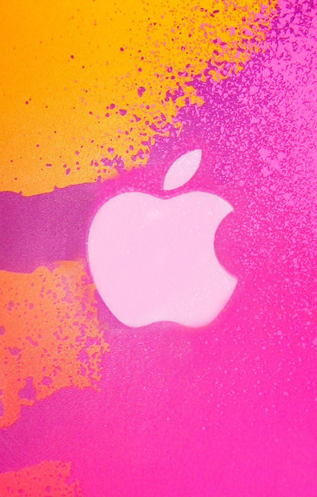
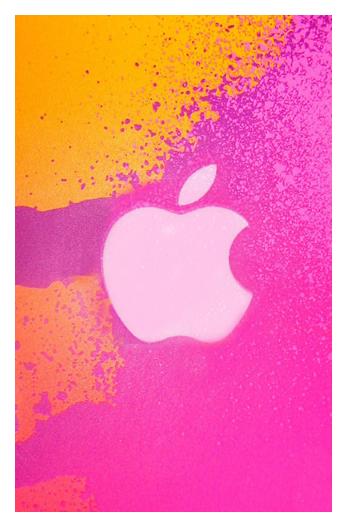
Added rounded corners

diff --git a/src/game/view/Window.java b/src/game/view/Window.java
@@ -2,12 +2,14 @@ package game.view;
 
 import game.Load;
 import game.view.fx.Transition;
+
 import javax.swing.*;
 import java.awt.*;
 import java.awt.geom.AffineTransform;
 import java.awt.geom.RoundRectangle2D;
 import java.awt.image.BufferedImage;
 
+import static java.awt.Color.white;
 import static java.awt.image.BufferedImage.TYPE_INT_ARGB;
 import static javax.swing.WindowConstants.EXIT_ON_CLOSE;
 
@@ -38,8 +40,9 @@ public class Window {
 
         Graphics2D cardGraphics = cardImage.createGraphics();
         cardGraphics.setStroke(new BasicStroke(10));
+        cardGraphics.setColor(white);
         cardGraphics.draw(new RoundRectangle2D.Float(
-                10, 10, cardWidth-20, cardHeight-20,
+                10, 10, cardWidth - 20, cardHeight - 20,
                 40, 40
         ));
 
